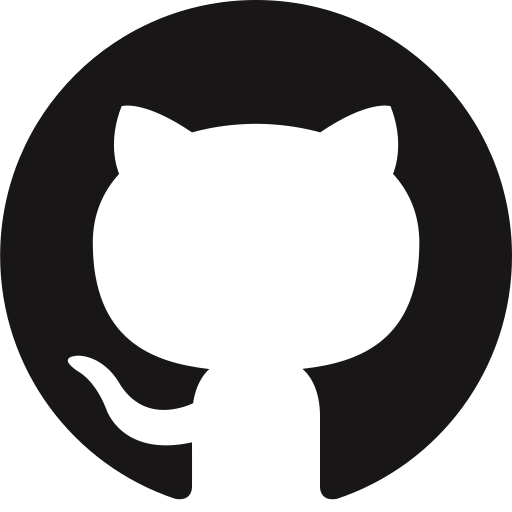
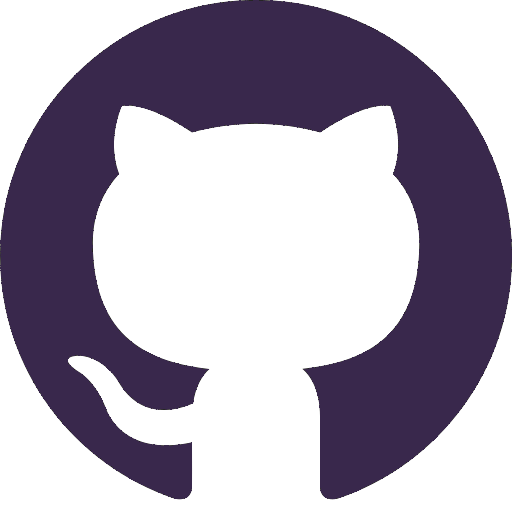
update colours

diff --git a/src/components/ProjectTiles/ProjectTiles.css b/src/components/ProjectTiles/ProjectTiles.css
@@ -14,12 +14,16 @@
 .tile {
     display: flex;
     flex: 1;
-    padding: 0 1rem 1rem 1rem;
+    padding: 1rem;
     flex-direction: column;
     margin: 0 2rem;
-    background: #11cfc5;
-    border: 5px solid #f56eca;
     border-radius: 10px;
+    background: rgba(42, 53, 81, 0.3);
+    border-radius: 16px;
+    box-shadow: 0 4px 30px rgba(0, 0, 0, 0.1);
+    backdrop-filter: blur(5px);
+    -webkit-backdrop-filter: blur(5px);
+    border: 1px solid rgba(42, 53, 81, 0.3);
 }
 
 .tile-content {
@@ -28,7 +32,13 @@
     flex-direction: column;
     justify-content: center;
     align-items: center;
-    background-color: #11cfc5;
+    background-color: #426296;
+    background: rgba(42, 53, 81, 0.3);
+    border-radius: 16px 16px 0 0;
+    box-shadow: 0 4px 30px rgba(0, 0, 0, 0.1);
+    backdrop-filter: blur(5px);
+    -webkit-backdrop-filter: blur(5px);
+    border: 1px solid rgba(42, 53, 81, 0.3);
 }
 
 .tile-content img {
@@ -45,9 +55,13 @@
     justify-content: space-around;
     align-items: center;
     padding: 1rem;
-    background-color: #f56eca;
-    border-radius: 0px 0px 10px 10px;
     flex-direction: column;
+    background: rgba(42, 53, 81, 0.3);
+    border-radius: 0 0 16px 16px;
+    box-shadow: 0 4px 30px rgba(0, 0, 0, 0.1);
+    backdrop-filter: blur(5px);
+    -webkit-backdrop-filter: blur(5px);
+    border: 1px solid rgba(42, 53, 81, 0.3);
 }
 
 .tile-footer a {
@@ -59,15 +73,16 @@
 .tile-footer button {
     padding: 1rem;
     width: 10rem;
-    background-color: #11cfc5;
+    background-color: #900137;
     cursor: pointer;
     font-weight: bold;
     color: #fff;
-    width: 100%
+    width: 100%;
+    border-radius: 10px;
 }
 
 .tile-footer button:hover {
-    background-color: #f56eca;
+    background-color: #426296;
 }
 
 .tile-footer button:active {

diff --git a/src/components/NavBar/NavBar.css b/src/components/NavBar/NavBar.css
@@ -2,9 +2,7 @@
 .nav-div {
     display: flex;
     flex-direction: row;
-    background-color: #11cfc5;
-    background: rgb(17, 207, 197);
-    background: linear-gradient(180deg, #11cfc5 0%, #11918b 100%);
+    background-color: #39284c;
 }
 
 /* Contains just the logo, child of .nav-div */
@@ -40,7 +38,7 @@
 }
 
 .nav-item a:hover {
-    color: #f56eca;
+    color: #900137;
 }
 
 #hamburger {
@@ -59,7 +57,7 @@
     right: 0;
     width: 0;
     height: 2px;
-    background-color: #f56eca;
+    background-color: #900137;
     transition: width 0.6s cubic-bezier(0.25, 1, 0.5, 1);
 }
 
@@ -100,9 +98,7 @@
 .nav-div-responsive-open {
     display: flex;
     flex-direction: column;
-    background-color: #11cfc5;
-    background: rgb(17, 207, 197);
-    background: linear-gradient(180deg, rgba(17, 207, 197, 1) 0%, rgba(17, 145, 138, 1) 100%);
+    background-color: #39284c;
 }
 
 .nav-top-bar-responsive-open {
@@ -151,5 +147,5 @@
 }
 
 .nav-item-responsive-open a:hover {
-    color: #f56eca;
+    color: #900137;
 }

diff --git a/src/components/MediaWithContent/MediaWithContent.css b/src/components/MediaWithContent/MediaWithContent.css
@@ -44,7 +44,6 @@
 
 .socials-item a img {
     max-width: 12vw;
-    filter: invert(72%) sepia(36%) saturate(4681%) hue-rotate(285deg) brightness(100%) contrast(93%);
 }
 
 #cv-buttons {
@@ -61,8 +60,8 @@
 #cv-buttons button {
     padding: 1rem;
     width: 100%;
-    background-color: #11cfc5;
-	border:2px solid #11918b;
+    background-color: #900137;
+	border:2px solid #0b535e;
 	cursor:pointer;
 	font-weight:bold;
     color: #fff;
@@ -71,7 +70,7 @@
 }
 
 #cv-buttons button:hover {
-    background-color:#f56eca;
+    background-color:#426296;
 }
 #cv-buttons button:active {
     position:relative;

diff --git a/src/index.css b/src/index.css
@@ -4,6 +4,8 @@
 body {
   font-family: "Brandon Grotesque";
   margin: 0;
+  background: rgb(235,192,235);
+  background: radial-gradient(circle, rgba(235,192,235,1) 0%, rgba(237,228,237,1) 100%);
 }
 
 code {
